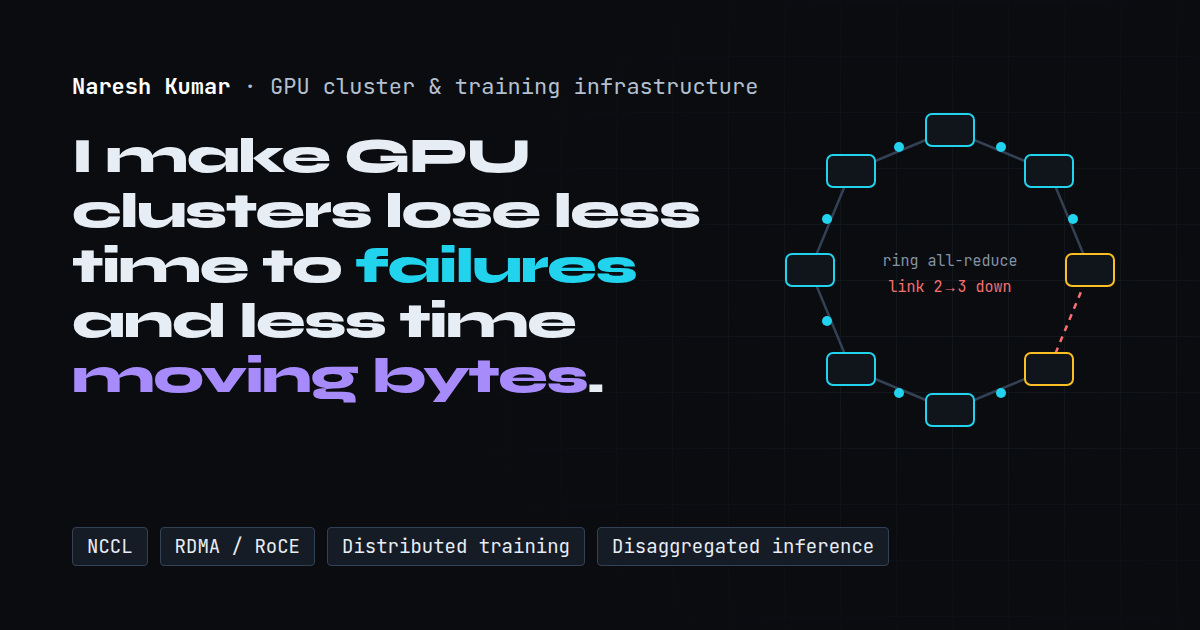
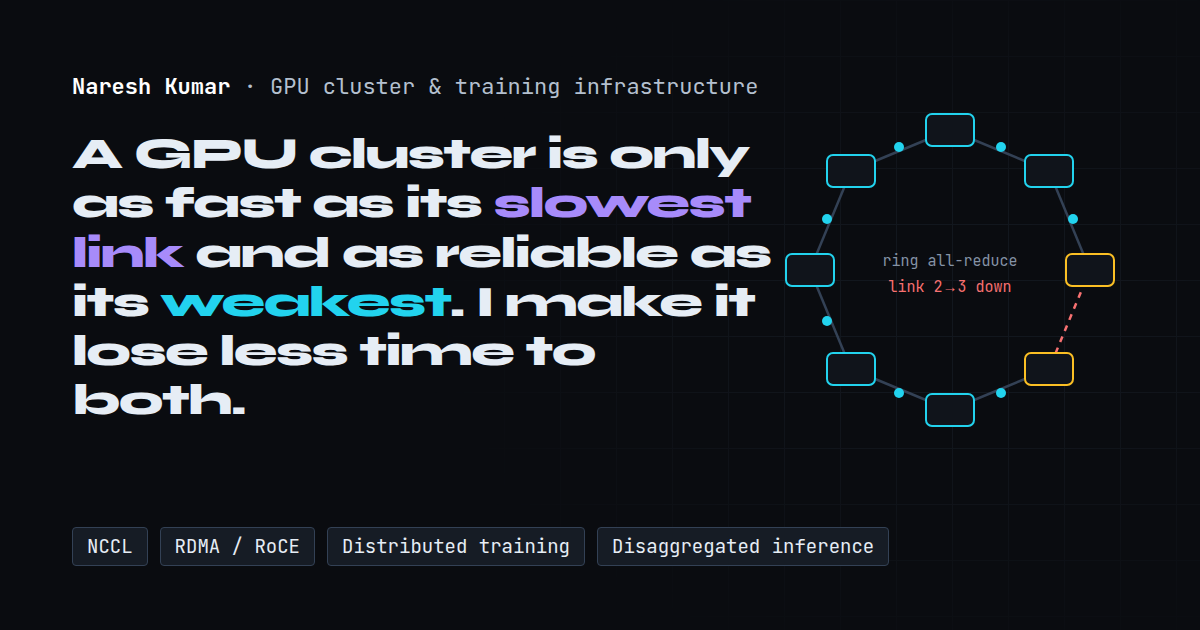
Hero: new headline blending options A and C
"A GPU cluster is only as fast as its slowest link and as reliable as
its weakest. I make it lose less time to both."

- Update hero h1, og:description and the OG image (re-rendered from
  assets/og/og-source.html).
- Resolve the hero-line TODO in index.html and TODO.md.
- CLAUDE.md: record the branch -> PR -> merge workflow (no direct
  commits to main).

Changed region(s): [[0.0617, 0.2111, 0.6475, 0.6635]]

diff --git a/assets/og/og-source.html b/assets/og/og-source.html
@@ -6,7 +6,7 @@ body{width:1200px;height:630px;background:#0a0c10;color:#e6edf5;font-family:'Jet
 body::before{content:'';position:absolute;inset:0;background-image:linear-gradient(#232c38 1px,transparent 1px),linear-gradient(90deg,#232c38 1px,transparent 1px);background-size:56px 56px;opacity:.35;mask-image:radial-gradient(ellipse 60% 80% at 80% 50%,black 20%,transparent 75%)}
 .l{position:absolute;left:72px;top:72px;width:700px}
 .k{font-size:22px;color:#b4c0cf;margin-bottom:28px}.k b{color:#fff}
-h1{font-family:Syne,sans-serif;font-weight:800;font-size:50px;line-height:1.1;letter-spacing:-1.5px}
+h1{font-family:Syne,sans-serif;font-weight:800;font-size:44px;line-height:1.12;letter-spacing:-1.5px}
 h1 em{font-style:normal;color:#22d3ee}h1 i{font-style:normal;color:#a78bfa}
 .t{position:absolute;left:72px;bottom:64px;display:flex;gap:12px}
 .t span{font-size:19px;padding:6px 14px;border:1px solid #334155;border-radius:4px;color:#e6edf5;background:#161c25}
@@ -14,7 +14,7 @@ h1 em{font-style:normal;color:#22d3ee}h1 i{font-style:normal;color:#a78bfa}
 svg{position:absolute;right:50px;top:70px;width:400px}
 </style></head><body>
 <div class="l"><p class="k"><b>Naresh Kumar</b> · GPU cluster &amp; training infrastructure</p>
-<h1>I make GPU clusters lose less time to <em>failures</em> and less time <i>moving bytes</i>.</h1></div>
+<h1>A GPU cluster is only as fast as its <i>slowest link</i> and as reliable as its <em>weakest</em>. I make it lose less time to both.</h1></div>
 <svg viewBox="0 0 400 400"><g stroke="#334155" stroke-width="2.5">
 <line x1="200" y1="60" x2="299" y2="101"/><line x1="299" y1="101" x2="340" y2="200"/><line x1="340" y1="200" x2="299" y2="299" stroke="#f87171" stroke-dasharray="6 6"/><line x1="299" y1="299" x2="200" y2="340"/><line x1="200" y1="340" x2="101" y2="299"/><line x1="101" y1="299" x2="60" y2="200"/><line x1="60" y1="200" x2="101" y2="101"/><line x1="101" y1="101" x2="200" y2="60"/></g>
 <g fill="#22d3ee"><circle cx="251" cy="77" r="5"/><circle cx="323" cy="149" r="5"/><circle cx="251" cy="323" r="5"/><circle cx="149" cy="323" r="5"/><circle cx="77" cy="251" r="5"/><circle cx="77" cy="149" r="5"/><circle cx="149" cy="77" r="5"/></g>

diff --git a/index.html b/index.html
@@ -10,7 +10,7 @@
 <meta property="og:type" content="website">
 <meta property="og:url" content="https://portfolio-webapp-roan.vercel.app/">
 <meta property="og:title" content="Naresh Kumar — GPU Cluster Networking &amp; Training Infrastructure">
-<meta property="og:description" content="Making GPU clusters lose less time to failures and less time moving bytes. Repos, models and interactive write-ups.">
+<meta property="og:description" content="A GPU cluster is only as fast as its slowest link and as reliable as its weakest. Repos, models and interactive write-ups on making it lose less time to both.">
 <meta property="og:image" content="https://portfolio-webapp-roan.vercel.app/og-image.png">
 <meta property="og:image:width" content="1200">
 <meta property="og:image:height" content="630">
@@ -67,16 +67,11 @@
 <main id="main">
 
 <!-- HERO -->
-<!--
-  TODO(naresh): pick the hero line (CLAUDE.md item 2). Current choice is A.
-    A) "I make GPU clusters lose less time to failures and less time moving bytes."
-    B) "When one link fails, a 512-GPU job stops. I build the infrastructure that finds it and gets training back fast."
-    C) "A GPU cluster is as fast as its slowest link and as reliable as its weakest one. I work on both."
--->
+<!-- Hero line: blend of options A + C, chosen by Naresh (Oct 2026). -->
 <header class="hero" id="top">
   <div>
     <p class="hero-eyebrow"><strong>Naresh Kumar</strong> · GPU cluster networking &amp; distributed-training infrastructure</p>
-    <h1 class="hero-title">I make GPU clusters lose less time to <em>failures</em> and less time <em class="alt">moving bytes</em>.</h1>
+    <h1 class="hero-title">A GPU cluster is only as fast as its <em class="alt">slowest link</em> and as reliable as its <em>weakest</em>. I make it lose less time to both.</h1>
     <p class="hero-bio">
       <a href="https://www.linkedin.com/in/nareshns2004/" target="_blank" rel="noopener">~9 years</a> below the framework layer:
       kernel networking, RDMA/RoCE, DPDK, SR-IOV, KVM and NCCL. Now applying it to the two problems that

diff --git a/CLAUDE.md b/CLAUDE.md
@@ -7,7 +7,8 @@ Put this file at the repo root as `CLAUDE.md`. Read it fully at the start of eve
 I work on this site in short weekend sessions of **20–30 minutes**. So:
 
 - At the start of a session, read `TODO.md` and propose doing **only the top unchecked item**. If it won't fit in ~25 minutes, split it and do the first half.
-- Every session ends with the site in a deployable state and one commit with a clear message. No half-finished refactors left on main.
+- Every session ends with the site in a deployable state and a clear commit message. No half-finished refactors.
+- **Git workflow:** never commit to `main`. Work on a branch (`feature/<topic>` or `fix/<topic>`), push the branch, and give me the compare link. I open the PR, review the Vercel preview, and merge.
 - At the end of a session, check off what was done in `TODO.md` and write one line under "Next session starts with:".
 - When you need my input, ask one specific question. Don't block on it: leave a `TODO(naresh):` marker and move on.
 - Create `TODO.md` in session 1 from the backlog below if it doesn't exist.

diff --git a/TODO.md b/TODO.md
@@ -24,7 +24,7 @@ Backlog from CLAUDE.md, ordered by impact.
 
 - **vLLM PR #50618**: on GitHub it's by JohnQinAMD and unmerged. Did you contribute under another account, or is it a different PR number? Send the link and it becomes the first proof item.
 - Links for the **cudagraph padding issue** and the **libbpf BTF fix**, if they exist.
-- Hero line: pick A, B or C (HTML comment at the top of the hero in `index.html`). A is live.
+- ~~Hero line~~: done, blend of A + C.
 - **Hugging Face model cards** are empty (license only). Even a short card (task, data, eval) makes the proof strip much stronger.
 - The 5 removed posts (XDP 14 Mpps, DPDK PMD, RDMA, RoCE/PFC, SR-IOV): publish any real drafts on Substack and add them to `data.js`.
 
